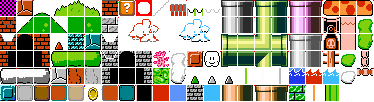
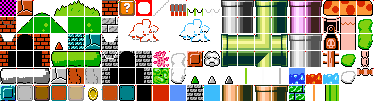
Replace cloud, water, and lava blocks.

Changed region(s): [[0.7647, 0.6765, 0.9118, 0.8235], [0.5294, 0.5, 0.5882, 0.6765]]

diff --git a/README.md b/README.md
@@ -70,6 +70,11 @@ Modified from Super Miyamoto by Lars Doucet & Sean Choate
 https://opengameart.org/content/super-miyamoto  
 License: CC-BY 3.0
 
+Cloud, water and lava blocks  
+Modified from Super Miyamoto Land Tilesets by Lars Doucet, Sean Choate, and Megan Bednarz  
+https://opengameart.org/content/super-miyamoto-land-tilesets  
+License: CC-BY 3.0
+
 
 Sounds
 
